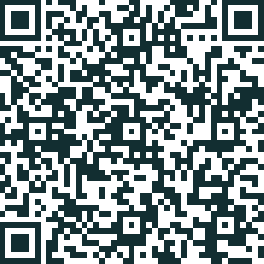
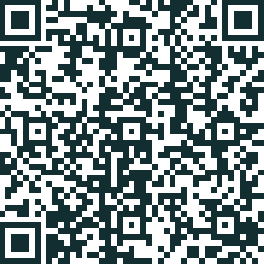
Start para iniciar

diff --git a/dialog.js b/dialog.js
@@ -9,7 +9,7 @@ const app = express();
 const port = process.env.PORT || 8000;
 const server = http.createServer(app);
 
-
+app.get('/start', function(request, response) {
 venom
   .create(
     'sessionName',
@@ -43,6 +43,7 @@ venom
   .catch((erro) => {
     console.log(erro);
   });
+});
 
 app.post('/webhook', function (request, response) {
   const agent = new WebhookClient({ request, response });
